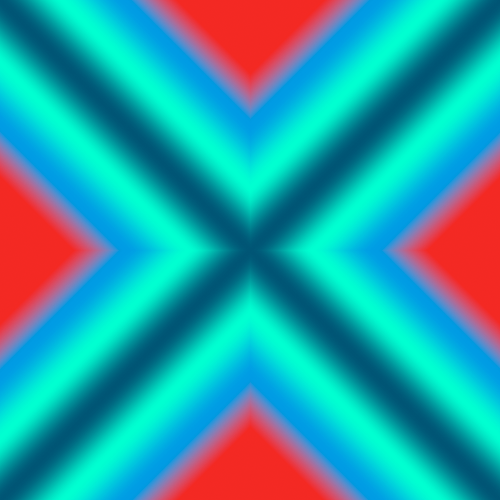
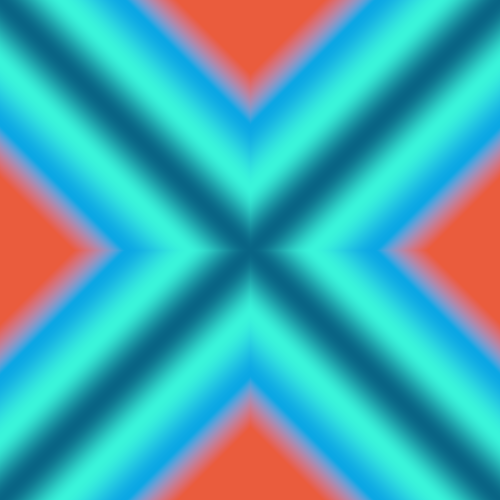
lots of images

diff --git a/src/peasyGradients/PeasyGradients.java b/src/peasyGradients/PeasyGradients.java
@@ -851,7 +851,7 @@ public final class PeasyGradients {
 					dist = 1;
 				}
 
-				final int stepInt = (int) (dist * cacheSize);
+				final int stepInt = (int) (dist * cacheSizeConic);
 
 				gradientPG.pixels[gradientPG.width * (y + renderOffsetY) + (x + renderOffsetX)] = pixelCacheConic[stepInt];
 			}

diff --git a/README.md b/README.md
@@ -14,7 +14,7 @@ PeasyGradients is a library for Processing to make drawing colour gradients easy
 ## Overview
 
 ### Key Features:
-* ### 11 Gradient Types
+* ### 10 Gradient Types
 * ### 10 Colour Spaces
 * ### 13 Colour Interpolation functions
 * ### Fast!
@@ -65,20 +65,46 @@ PeasyGradients provides 11 types of 2D gradients. Screenshot and examples for ea
 Most gradient methods allow zoom and rotation to be defined; certain gradient types might offer additional parameters.
 
 ### Linear
+<a href="https://github.com/micycle1/PeasyGradients">
+<img src="resources/gradient_type_examples/linear.png" alt="PeasyGradients"/></a><br>
 <details><summary>More...</summary>
   * `linearGradient(Gradient gradient, float angle)`
 </details>
 
 ### Radial
+<a href="https://github.com/micycle1/PeasyGradients">
+<img src="resources/gradient_type_examples/radial.png" alt="PeasyGradients"/></a><br>
+
 ### Conic
-### Conic Smooth
+<a href="https://github.com/micycle1/PeasyGradients">
+<img src="resources/gradient_type_examples/conic.png" alt="PeasyGradients"/></a><br>
+
 ### Spiral
+<a href="https://github.com/micycle1/PeasyGradients">
+<img src="resources/gradient_type_examples/spiral.png" alt="PeasyGradients"/></a><br>
+
 ### Diamond
+<a href="https://github.com/micycle1/PeasyGradients">
+<img src="resources/gradient_type_examples/diamond.png" alt="PeasyGradients"/></a><br>
+
 ### Cross
+<a href="https://github.com/micycle1/PeasyGradients">
+<img src="resources/gradient_type_examples/cross.png" alt="PeasyGradients"/></a><br>
+
 ### Polygon
+<a href="https://github.com/micycle1/PeasyGradients">
+<img src="resources/gradient_type_examples/polygon(6).png" alt="PeasyGradients"/></a><br>
+
 ### Cone
+#### TODO
+
 ### Hourglass
+<a href="https://github.com/micycle1/PeasyGradients">
+<img src="resources/gradient_type_examples/hourglass.png" alt="PeasyGradients"/></a><br>
+
 ### Noise
+<a href="https://github.com/micycle1/PeasyGradients">
+<img src="resources/gradient_type_examples/noise.png" alt="PeasyGradients"/></a><br>
 <details><summary>More...</summary>
 This is slow and not suitable for live dynamic rendering.
 </details>
@@ -97,15 +123,55 @@ Remember that a 1D gradient consists of only a few defined colour stops; all oth
  PeasyGradients supports many different colour spaces — these are the possible colour spaces (accessible via `ColourSpaces.class`):
 
 * `RGB`
+
+<a href="https://github.com/micycle1/PeasyGradients">
+<img src="resources/colour_space_examples/RGB.png" alt="PeasyGradients"/></a><br>
+
 * `RYB`
+
+<a href="https://github.com/micycle1/PeasyGradients">
+<img src="resources/colour_space_examples/RYB.png" alt="PeasyGradients"/></a><br>
+
 * `HSB`
+
+<a href="https://github.com/micycle1/PeasyGradients">
+<img src="resources/colour_space_examples/HSB.png" alt="PeasyGradients"/></a><br>
+
 * `XYZ` (CIE 1931) [**gradient default**]
+
+<a href="https://github.com/micycle1/PeasyGradients">
+<img src="resources/colour_space_examples/XYZ.png" alt="PeasyGradients"/></a><br>
+
 * `LAB` (CIE L\*a\*b*)
-* `DIN99`
-* `ITP` (ICtCp)
+
+<a href="https://github.com/micycle1/PeasyGradients">
+<img src="resources/colour_space_examples/LAB.png" alt="PeasyGradients"/></a><br>
+
 * `HLAB` (Hunter LAB)
+
+<a href="https://github.com/micycle1/PeasyGradients">
+<img src="resources/colour_space_examples/HLAB.png" alt="PeasyGradients"/></a><br>
+
+* `DIN99`
+
+<a href="https://github.com/micycle1/PeasyGradients">
+<img src="resources/colour_space_examples/DIN99.png" alt="PeasyGradients"/></a><br>
+
+* `ITP` (ICtCp)
+
+<a href="https://github.com/micycle1/PeasyGradients">
+<img src="resources/colour_space_examples/ITP.png" alt="PeasyGradients"/></a><br>
+
 * `LUV` (CIE 1976 L*, u*, v*)
+
+<a href="https://github.com/micycle1/PeasyGradients">
+<img src="resources/colour_space_examples/LUV.png" alt="PeasyGradients"/></a><br>
+
 * `JAB` (JzAzBz)
+
+<a href="https://github.com/micycle1/PeasyGradients">
+<img src="resources/colour_space_examples/JAB.png" alt="PeasyGradients"/></a><br>
+
 
 
 
